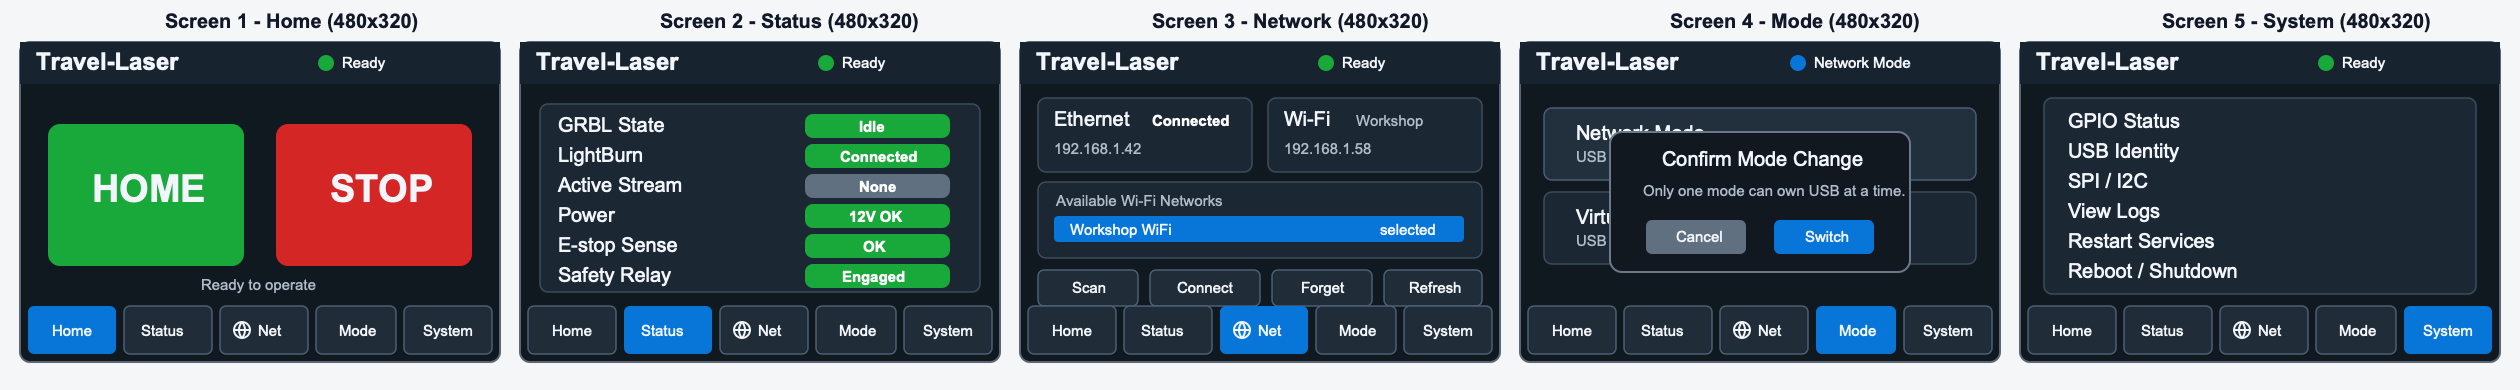
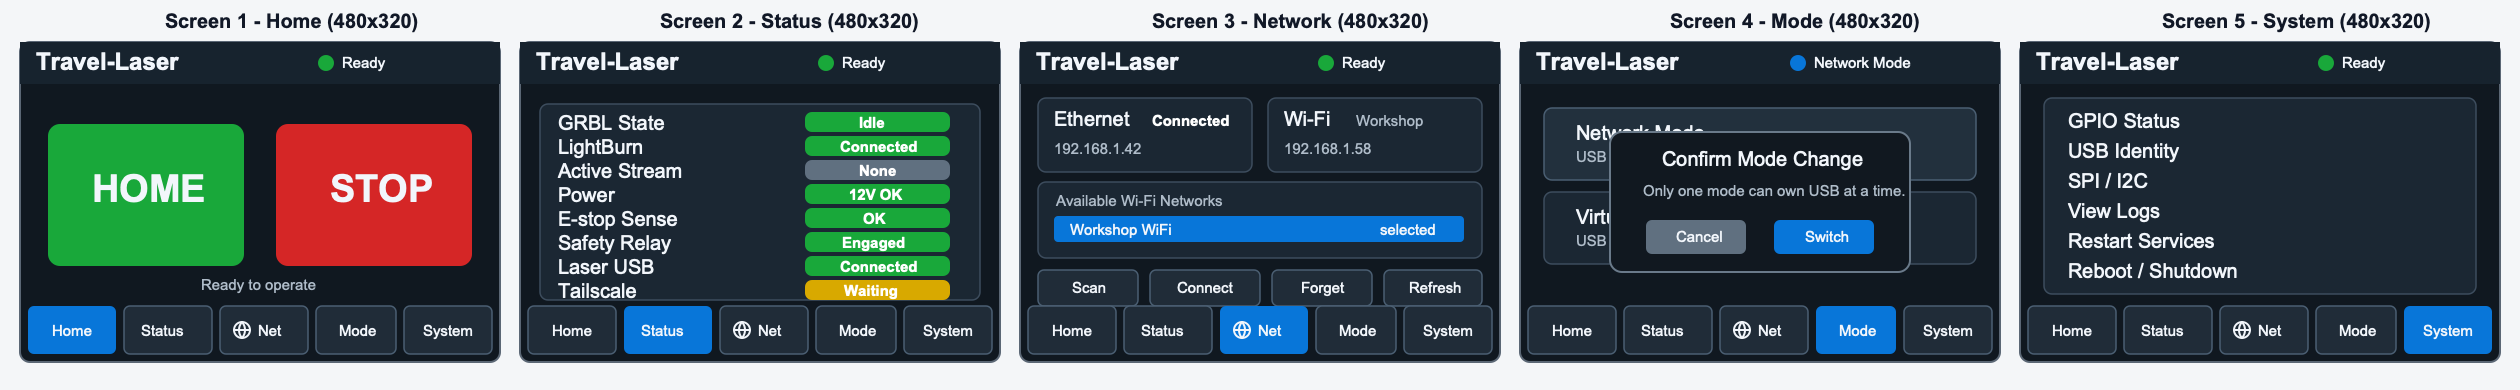
Prepare web portal for Tailscale-only access

Changed region(s): [[0.2167, 0.2769, 0.4024, 0.7692]]

diff --git a/web/app.js b/web/app.js
@@ -12,6 +12,7 @@ function renderStatus(state) {
   setText("estop-sense", state.physical.estop_sense ? "active" : "ok");
   setText("k1", state.physical.k1 ? "on" : "off");
   setText("lightburn", state.lightburn.connected ? "connected" : "disconnected");
+  setText("tailscale", tailscaleLabel(state.network));
   setText("mode", state.mode.laser_mode);
 
   const error = document.getElementById("error");
@@ -23,6 +24,12 @@ function renderStatus(state) {
   }
 
   renderCamera(state.camera);
+}
+
+function tailscaleLabel(network) {
+  if (!network) return "unknown";
+  if (network.tailscale_connected && network.tailscale_ip) return network.tailscale_ip;
+  return network.tailscale_status || "waiting";
 }
 
 function renderCamera(camera) {

diff --git a/docs/ui/local-touchscreen-walkthrough.html b/docs/ui/local-touchscreen-walkthrough.html
@@ -573,6 +573,7 @@
             ${row("E-stop Sense", "OK", "ok")}
             ${row("Safety Relay", "Engaged", "ok")}
             ${row("Laser USB", "Connected", "ok")}
+            ${row("Tailscale", "Waiting", "warn")}
           </div>
         `;
       }
@@ -670,7 +671,7 @@
           <div class="subpage">
             ${subhead("View Logs")}
             <div class="log-box">20:14:05 INFO controller ready in network mode
-20:14:07 INFO web portal started on 0.0.0.0:8080
+20:14:07 INFO web portal waiting for Tailscale IP
 20:14:10 INFO laser usb connected
 20:14:12 INFO LightBurn connected
 20:15:03 INFO status poll: Idle

diff --git a/web/index.html b/web/index.html
@@ -17,6 +17,7 @@
           <div><dt>E-stop Sense</dt><dd id="estop-sense">ok</dd></div>
           <div><dt>K1 E-stop Relay</dt><dd id="k1">off</dd></div>
           <div><dt>LightBurn</dt><dd id="lightburn">disconnected</dd></div>
+          <div><dt>Tailscale</dt><dd id="tailscale">waiting</dd></div>
           <div><dt>Mode</dt><dd id="mode">network</dd></div>
         </dl>
         <p id="error" hidden></p>

diff --git a/backend/config.py b/backend/config.py
@@ -80,8 +80,9 @@ class GPIOConfig:
 
 @dataclass
 class WebConfig:
-    host: str = "0.0.0.0"
+    host: str | None = "0.0.0.0"
     port: int = 8080
+    bind_to_tailscale: bool = False
 
 
 @dataclass
@@ -111,6 +112,9 @@ class LoggingConfig:
 class NetworkConfig:
     uplink_wifi_interface: str = "wlan1"
     ethernet_interface: str = "eth0"
+    tailscale_interface: str = "tailscale0"
+    tailscale_ip: str | None = None
+    tailscale_enabled: bool = True
     ethernet_metric: int = 100
     uplink_wifi_metric: int = 300
     ethernet_preferred: bool = True
@@ -205,7 +209,11 @@ def config_from_dict(raw: dict[str, Any]) -> AppConfig:
             estop_input=_gpio_line(gpio.get("estop_input", {})),
             k1_output=_gpio_line(gpio.get("k1_output", {})),
         ),
-        web=WebConfig(host=str(web.get("host", "0.0.0.0")), port=int(web.get("port", 8080))),
+        web=WebConfig(
+            host=_optional_str(web.get("host", "0.0.0.0")),
+            port=int(web.get("port", 8080)),
+            bind_to_tailscale=_as_bool(web.get("bind_to_tailscale", False)),
+        ),
         fire=FireConfig(
             enabled=_as_bool(fire.get("enabled", False)),
             sensor_enabled=_as_bool(fire.get("sensor_enabled", raw.get("FIRE_SENSOR", False))),
@@ -222,6 +230,9 @@ def config_from_dict(raw: dict[str, Any]) -> AppConfig:
         network=NetworkConfig(
             uplink_wifi_interface=str(network.get("uplink_wifi", {}).get("interface", "wlan1")),
             ethernet_interface=str(network.get("ethernet", {}).get("interface", "eth0")),
+            tailscale_interface=str(network.get("tailscale", {}).get("interface", "tailscale0")),
+            tailscale_ip=_optional_str(network.get("tailscale", {}).get("ip_address")),
+            tailscale_enabled=_as_bool(network.get("tailscale", {}).get("enabled", True)),
             ethernet_metric=int(network.get("ethernet", {}).get("metric", 100)),
             uplink_wifi_metric=int(network.get("uplink_wifi", {}).get("metric", 300)),
             ethernet_preferred=_as_bool(network.get("ethernet_preferred", True)),
@@ -254,6 +265,13 @@ def _optional_int(value: Any) -> int | None:
     if value is None:
         return None
     return int(str(value), 0)
+
+
+def _optional_str(value: Any) -> str | None:
+    if value is None:
+        return None
+    text = str(value).strip()
+    return text or None
 
 
 def _as_bool(value: Any) -> bool:

diff --git a/backend/main.py b/backend/main.py
@@ -5,7 +5,7 @@ import asyncio
 import logging
 from pathlib import Path
 
-from .config import load_config
+from .config import AppConfig, load_config
 from .gpio import LinuxGPIOBackend, MockGPIOBackend
 from .grbl_proxy import GrblProxy
 from .logging_setup import EventLogger, configure_logging
@@ -31,6 +31,16 @@ async def run(config_path: Path | None, mock: bool) -> None:
         snapshot.safety.fire_enabled = config.fire.enabled and config.fire.sensor_enabled
         snapshot.camera.stream_url = config.camera.stream_url
         snapshot.camera.stream_type = config.camera.stream_type
+        snapshot.network.tailscale_interface = config.network.tailscale_interface
+        snapshot.network.tailscale_ip = config.network.tailscale_ip
+        snapshot.network.tailscale_connected = bool(config.network.tailscale_enabled and config.network.tailscale_ip)
+        snapshot.network.tailscale_status = (
+            "connected"
+            if snapshot.network.tailscale_connected
+            else "waiting for Tailscale IP"
+            if config.network.tailscale_enabled
+            else "disabled"
+        )
 
     await state.update(apply_config)
 
@@ -53,7 +63,7 @@ async def run(config_path: Path | None, mock: bool) -> None:
         safety,
         proxy,
         static_dir=Path(__file__).resolve().parent.parent / "web",
-        host=config.web.host,
+        host=_resolve_web_host(config),
         port=config.web.port,
     )
 
@@ -87,6 +97,17 @@ def main() -> None:
     parser.add_argument("--mock", action="store_true", help="use mock GPIO/serial hardware")
     args = parser.parse_args()
     asyncio.run(run(args.config, args.mock))
+
+
+def _resolve_web_host(config: AppConfig) -> str:
+    if config.web.bind_to_tailscale:
+        if not config.network.tailscale_ip:
+            raise RuntimeError(
+                "web.bind_to_tailscale is enabled but network.tailscale.ip_address is not set; "
+                "fill it in after the device joins Tailscale"
+            )
+        return config.network.tailscale_ip
+    return config.web.host or "0.0.0.0"
 
 
 if __name__ == "__main__":

diff --git a/backend/tests/test_config.py b/backend/tests/test_config.py
@@ -1,6 +1,7 @@
 from pathlib import Path
 
 from backend.config import config_from_dict, load_config
+from backend.main import _resolve_web_host
 
 
 def test_example_config_captures_deployment_defaults():
@@ -34,6 +35,12 @@ def test_example_config_captures_deployment_defaults():
     assert config.network.ethernet_metric == 100
     assert config.network.uplink_wifi_interface == "wlan1"
     assert config.network.uplink_wifi_metric == 300
+    assert config.network.tailscale_enabled is True
+    assert config.network.tailscale_interface == "tailscale0"
+    assert config.network.tailscale_ip is None
+    assert config.web.host is None
+    assert config.web.bind_to_tailscale is True
+    assert config.web.port == 8080
     assert config.fire.enabled is False
     assert config.fire.sensor_enabled is False
     assert config.fire.drop_k1 is True
@@ -44,6 +51,28 @@ def test_example_config_captures_deployment_defaults():
 def test_uppercase_fire_sensor_false_parses_false():
     config = config_from_dict({"FIRE_SENSOR": "FALSE"})
     assert config.fire.sensor_enabled is False
+
+
+def test_web_host_resolves_to_tailscale_ip_when_required():
+    config = config_from_dict(
+        {
+            "web": {"bind_to_tailscale": True},
+            "network": {"tailscale": {"ip_address": "100.64.12.34"}},
+        }
+    )
+
+    assert _resolve_web_host(config) == "100.64.12.34"
+
+
+def test_web_host_requires_tailscale_ip_when_tailscale_only():
+    config = config_from_dict({"web": {"bind_to_tailscale": True}, "network": {"tailscale": {"ip_address": None}}})
+
+    try:
+        _resolve_web_host(config)
+    except RuntimeError as exc:
+        assert "network.tailscale.ip_address" in str(exc)
+    else:
+        raise AssertionError("expected Tailscale-only web binding to require an IP")
 
 
 def test_example_config_has_no_gpio_line_overlaps():

diff --git a/backend/application/ui.py b/backend/application/ui.py
@@ -75,7 +75,7 @@ class LocalUI:
     def max_scroll(self, screen: ScreenName) -> int:
         content_heights: dict[ScreenName, int] = {
             "home": CONTENT_HEIGHT,
-            "status": 224,
+            "status": 252,
             "net": 258,
             "mode": CONTENT_HEIGHT,
             "system": 252,
@@ -162,6 +162,7 @@ class LocalUI:
             ("E-stop Sense", "OK", GREEN),
             ("Safety Relay", "Engaged", GREEN),
             ("Laser USB", "Connected", GREEN),
+            ("Tailscale", "Waiting", YELLOW),
         )
         y = 58 - scroll_y
         for label, value, color in rows:

diff --git a/backend/state.py b/backend/state.py
@@ -66,7 +66,10 @@ class NetworkState:
     wifi_connected: bool = False
     wifi_ssid: str | None = None
     ip_address: str | None = None
+    tailscale_connected: bool = False
+    tailscale_interface: str = "tailscale0"
     tailscale_ip: str | None = None
+    tailscale_status: str = "not configured"
 
 
 @dataclass

diff --git a/docs/API.md b/docs/API.md
@@ -6,7 +6,7 @@
 - `POST /api/stop`
 - `POST /api/estop`
 
-The web portal is hosted on `0.0.0.0:8080` and embeds the configured WebRTC camera stream in a simple viewer. If no camera stream URL is configured, it defaults to `http://<current-host>:8889/cam`.
+The web portal is hosted on the configured Tailscale IPv4 address at port `8080` and embeds the configured WebRTC camera stream in a simple viewer. Deployment uses `web.bind_to_tailscale: true`; startup intentionally fails until `network.tailscale.ip_address` is filled in after the Orange Pi joins the tailnet. If no camera stream URL is configured, it defaults to `http://<current-host>:8889/cam`.
 
 ## Local UI
 
@@ -21,7 +21,7 @@ Expected local screens:
 All local touchscreen screens target `480x320` landscape. Do not design portrait/mobile-style panels for the physical display.
 
 - Home: machine state plus two large same-priority controls, `HOME` and `STOP`.
-- Status: GRBL state, LightBurn TCP connection/stream state, Power, E-stop Sense, Safety Relay, and Laser USB connection.
+- Status: GRBL state, LightBurn TCP connection/stream state, Power, E-stop Sense, Safety Relay, Laser USB connection, and Tailscale state.
 - Network: `eth0` connection state with received IP shown below it, `wlan1` selected SSID/state with received IP shown below it, Wi-Fi scan, SSID selection, password prompt, connect, forget, and refresh.
 - Mode: Network vs VirtualHere ownership. Selecting the inactive mode opens a confirmation popup before changing modes.
 - System: display/touch test, diagnostics, service controls, reboot/shutdown.

diff --git a/README.md b/README.md
@@ -148,5 +148,6 @@ The export includes `/var/log/travel-laser` plus recent journals for the control
 - Set `CAMERA_DEVICE` in `systemd/travel-laser-camera.service` to a stable `/dev/v4l/by-id/...` path after the camera is present.
 - Confirm the highest stable camera mode reported by `v4l2-ctl --list-formats-ext`.
 - Confirm the OS device names for SPI1 and I2C3 after enabling them.
+- Fill `network.tailscale.ip_address` with the Orange Pi's stable Tailscale IPv4 address before enabling the deployed web portal.
 - Confirm whether ST7796U userspace SPI is fast enough or whether a kernel DRM/fbdev route is better on the chosen OS image.
 - Confirm the exact VirtualHere service name and whether backend-controlled mode switching should start/stop that service or leave it manual.

diff --git a/docs/NETWORKING.md b/docs/NETWORKING.md
@@ -7,6 +7,8 @@ The intended deployment uses normal uplink networking only. There is no private 
 - Ethernet uses `eth0` with route metric `100`.
 - `eth0` is preferred over `wlan1` when both uplinks are connected.
 - Remote browser access is expected through Tailscale.
+- The web portal must bind only to the Orange Pi's configured Tailscale IPv4 address on port `8080`.
+- The Tailscale IPv4 address is hardware/network dependent and remains unset until the Orange Pi joins the tailnet.
 - The local touchscreen Network screen shows the received IP address for both `eth0` and `wlan1`. Use that IP address for LightBurn's GRBL/TCP connection on port `23`.
 
 `scripts/configure-network.sh` applies route metrics for `eth0` and `wlan1` with `nmcli`.
